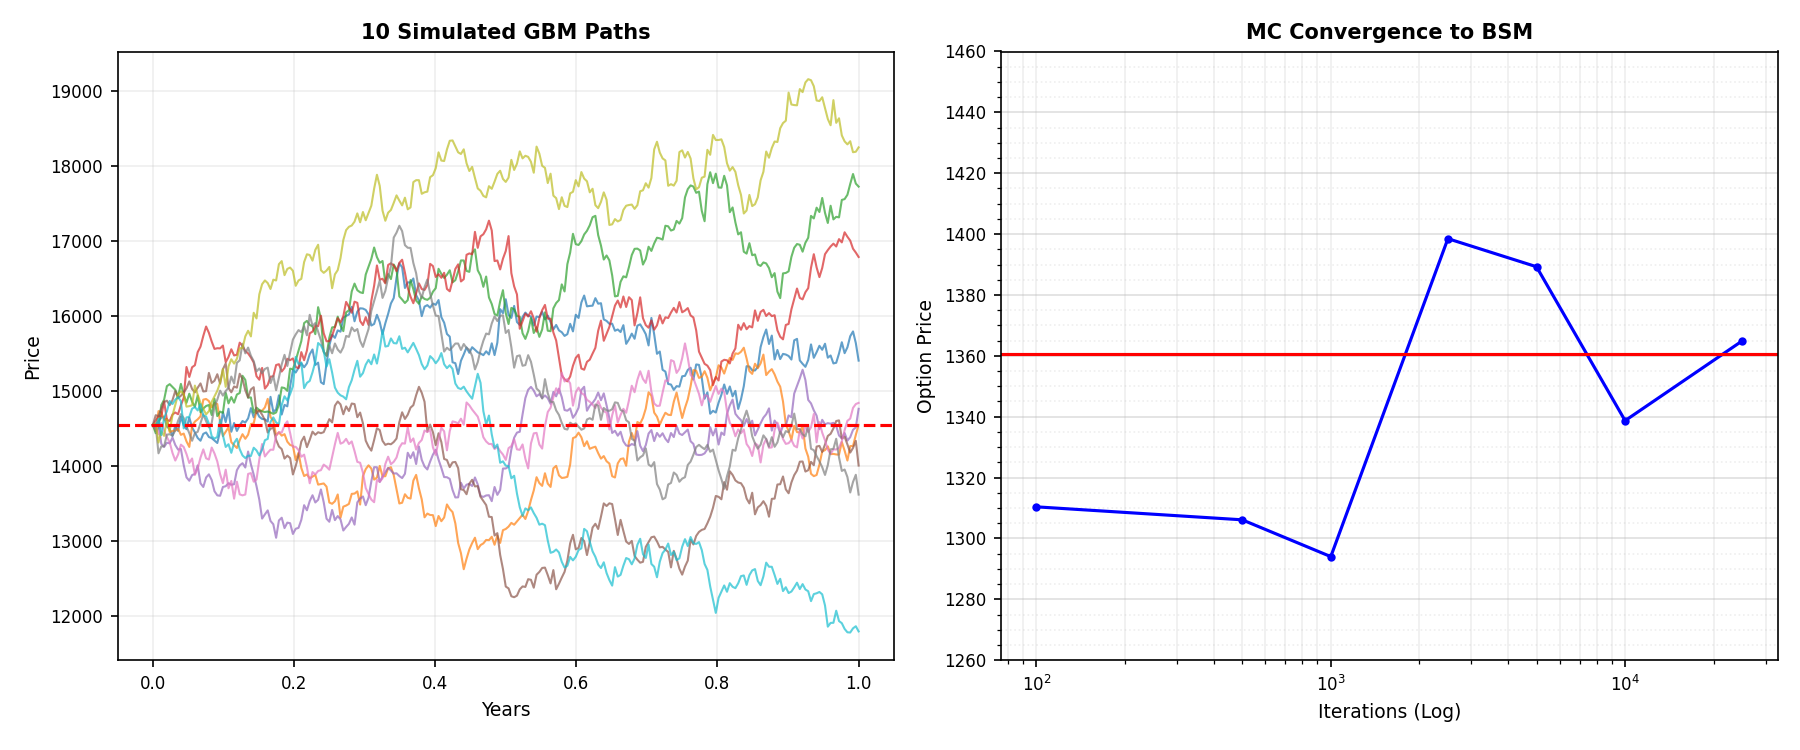
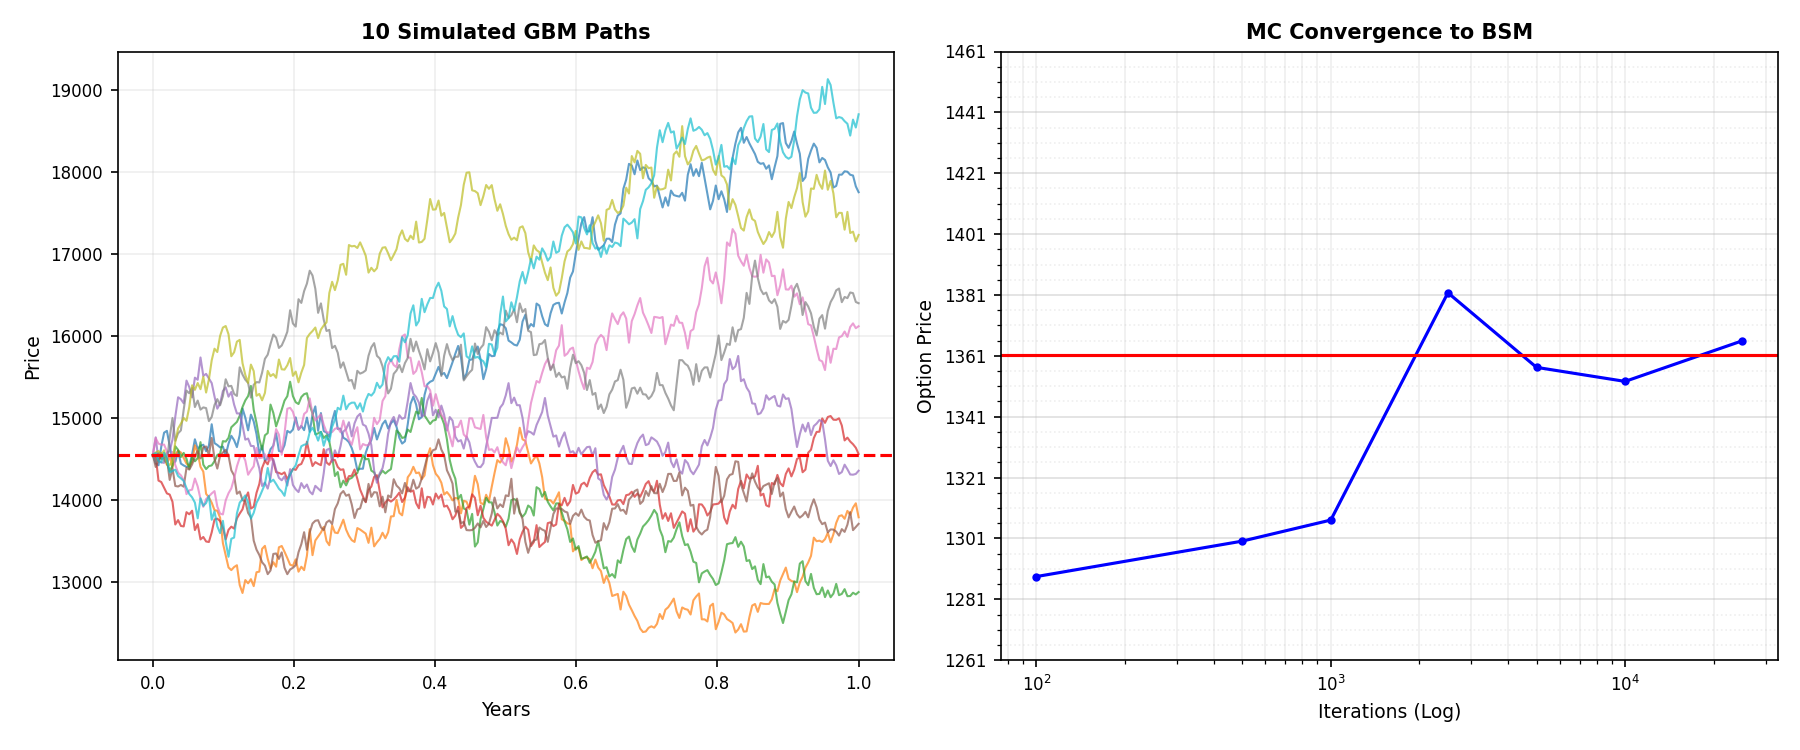
added hedging function

diff --git a/montecarlosim.py b/montecarlosim.py
@@ -19,49 +19,101 @@ print(f"Annualized Volatility of Nifty 50 calculated through historical data (%)
 print("-"*50)
 
 
-# =====================================================
+
 # Black-Scholes Call Option Pricing Function
-# =====================================================
+
 
 def black_scholes_call(S, K, T, r, sigma):
-   
-    
+
     d1 = (np.log(S / K) + (r + 0.5 * sigma**2) * T) / (sigma * np.sqrt(T))
     d2 = d1 - sigma * np.sqrt(T)
-    
 
     call_price = S * norm.cdf(d1) - K * np.exp(-r * T) * norm.cdf(d2)
-    
+
     return call_price
 
 
-# =====================================================
+
+# Black-Scholes Delta Function
+
+def black_scholes_delta(S, K, T, r, sigma):
+    d1 = (np.log(S / K) + (r + 0.5 * sigma**2) * T) / (sigma * np.sqrt(T))
+    delta = norm.cdf(d1)
+    return delta
+
+
+
 # Monte Carlo Call Option Pricing Function
-# =====================================================
+
 
 def monte_carlo_call_price(S0, K, T, r, sigma, iterations=10000):
-   
+
     z = np.random.standard_normal(iterations)
     S_final = S0 * np.exp((r - 0.5 * sigma**2) * T + sigma * np.sqrt(T) * z)
     payoffs = np.maximum(S_final - K, 0)
     call_price = np.exp(-r * T) * np.mean(payoffs)
     std_error = np.std(payoffs, ddof=1) / np.sqrt(iterations)
-    
+
     return call_price, std_error
 
 
 
-S_0 = closing_prices.values[0].item() 
-K = S_0    
-T = 1      
-r = 0.07   
-sigma = annualized_volatility.item() 
+# Monte Carlo Delta Hedging Simulation
+
+def simulate_delta_hedging(S0, K, T, r, sigma, num_simulations=1000, num_steps=252):
+    dt = T / num_steps
+
+
+    stock_prices = np.zeros((num_simulations, num_steps + 1))
+    stock_prices[:, 0] = S0
+
+    cash_account = np.zeros(num_simulations)
+    shares_held = np.zeros(num_simulations)
+    initial_delta = black_scholes_delta(S0, K, T, r, sigma)
+    shares_held[:] = initial_delta
+    cash_account -= shares_held * S0
+    z = np.random.standard_normal((num_simulations, num_steps))
+
+    for j in range(num_steps):
+        time_remaining = T - (j + 1) * dt
+        drift = (r - 0.5 * sigma**2) * dt
+        volatility_term = sigma * np.sqrt(dt) * z[:, j]
+        stock_prices[:, j+1] = stock_prices[:, j] * np.exp(drift + volatility_term)
+        if time_remaining > 0:
+
+            new_delta = black_scholes_delta(stock_prices[:, j+1], K, time_remaining, r, sigma)
+        else:
+            new_delta = np.zeros(num_simulations)
+
+        delta_change = new_delta - shares_held
+        cash_account -= delta_change * stock_prices[:, j+1]
+        shares_held = new_delta
+        cash_account *= np.exp(r * dt)
+    final_stock_prices = stock_prices[:, num_steps]
+    option_payoff = np.maximum(final_stock_prices - K, 0)
+    final_portfolio_value = cash_account + shares_held * final_stock_prices - option_payoff
+
+    mean_hedging_pnl = np.mean(final_portfolio_value)
+    std_hedging_pnl = np.std(final_portfolio_value)
+
+    return mean_hedging_pnl, std_hedging_pnl, final_portfolio_value
+
+
+
+S_0 = closing_prices.values[0].item()
+K = S_0
+T = 1
+r = 0.07
+sigma = annualized_volatility.item()
 
 call_price_bs = black_scholes_call(S_0, K, T, r, sigma)
 np.random.seed(42)
 call_price_mc, std_error_mc = monte_carlo_call_price(
     S_0, K, T, r, sigma, iterations=10000
 )
+
+np.random.seed(42)
+mean_hedging_pnl, std_hedging_pnl, final_pnl_values = simulate_delta_hedging(S_0, K, T, r, sigma, num_simulations=10000, num_steps=252 * 10) # Changed num_steps here
 
 # Black-Scholes results
 print("\n" + "-"*50)
@@ -93,9 +145,9 @@ print(f"Difference:          INR {abs(call_price_bs - call_price_mc):.4f}")
 print(f"Difference (%):      {abs(call_price_bs - call_price_mc) / call_price_bs * 100:.2f}%")
 print("-"*50)
 
-# =====================================================
+
 # Plotting Section
-# =====================================================
+
 
 iteration_counts = np.array([100, 500, 1000, 2500, 5000, 10000, 25000])
 mc_prices_line = []
@@ -111,12 +163,12 @@ dt = 1 / 252
 steps = int(T * 252)
 paths = np.zeros((10, steps + 1))
 paths[:, 0] = S_0
-for i in range(steps):
-    paths[:, i+1] = paths[:, i] * np.exp((r - 0.5 * sigma**2) * dt + sigma * np.sqrt(dt) * np.random.standard_normal(10))
+for i in range(10):
+    paths[i, 1:] = paths[i, 0] * np.exp(np.cumsum((r - 0.5 * sigma**2) * dt + sigma * np.sqrt(dt) * np.random.standard_normal(steps)))
 
 time_axis = np.linspace(0, T, steps + 1)
 for i in range(10):
-    ax1.plot(time_axis, paths[i, :], alpha=0.7, linewidth=1) 
+    ax1.plot(time_axis, paths[i, :], alpha=0.7, linewidth=1)
 
 ax1.axhline(y=K, color='r', linestyle='--', label='Strike')
 ax1.set_title('10 Simulated GBM Paths', fontsize=10, fontweight='bold')
@@ -125,10 +177,10 @@ ax1.set_ylabel('Price', fontsize=9)
 ax1.tick_params(labelsize=8)
 ax1.grid(True, alpha=0.2)
 
-#  Convergence 
+#  Convergence
 ax2.plot(iteration_counts, mc_prices_line, marker='o', markersize=3, color='blue', label='MC')
 ax2.axhline(y=call_price_bs, color='red', linestyle='-', label='BSM')
-ax2.set_xscale('log') 
+ax2.set_xscale('log')
 ax2.set_title('MC Convergence to BSM', fontsize=10, fontweight='bold')
 ax2.set_xlabel('Iterations (Log)', fontsize=9)
 ax2.set_ylabel('Option Price', fontsize=9)
@@ -145,9 +197,9 @@ ax2.set_ylim(y_min, y_max)
 plt.tight_layout()
 plt.savefig('nifty_horizontal.png', dpi=150)
 plt.show()
-# =====================================================
+
 # Summary Table
-# =====================================================
+
 
 abs_pct_error = abs(call_price_bs - call_price_mc) / call_price_bs * 100
 
@@ -156,10 +208,12 @@ print("\n" + "="*70)
 print("SUMMARY TABLE: European Call Option Pricing Analysis")
 print("="*70)
 
-summary_data = [
-    ("Black-Scholes Price", f"₹{call_price_bs:.4f}"),
-    ("Monte Carlo Price (10,000 paths)", f"₹{call_price_mc:.4f}"),
+summary_data = [("Calculated Volatility (%)",f"{sigma*100:.2f}%"),
+    ("Black-Scholes Price", f"INR {call_price_bs:.4f}"),
+    ("Monte Carlo Price (10,000 paths)", f"INR {call_price_mc:.4f}"),
     ("Absolute Percentage Error", f"{abs_pct_error:.4f}%"),
+    ("Delta P&L (Mean)", f"INR {mean_hedging_pnl:.4f}"),
+    ("Delta P&L (Std Dev)", f"INR {std_hedging_pnl:.4f}")
 ]
 
 
@@ -170,6 +224,3 @@ for metric, value in summary_data:
     print(f"{metric:<35} {value:>30}")
 
 print("="*70)
-    
-   
-

diff --git a/README.md b/README.md
@@ -11,6 +11,7 @@ This repository contains a Python script (`montecarlosim.py`) that:
   - Monte Carlo convergence vs Black-Scholes (log-iteration scale)
 - Saves plot as `nifty_horizontal.png`
 - Prints a formatted summary table of results (INR labels) with percentage error and confidence interval
+-has a continuous delta hedging function that calculates hedging performance
 
 ## Files
 
